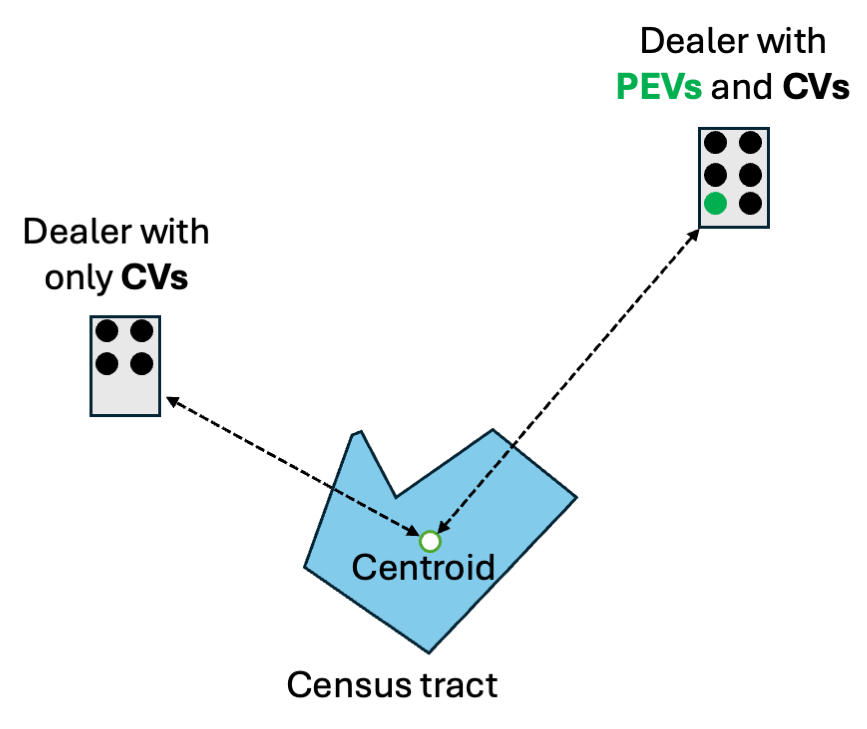
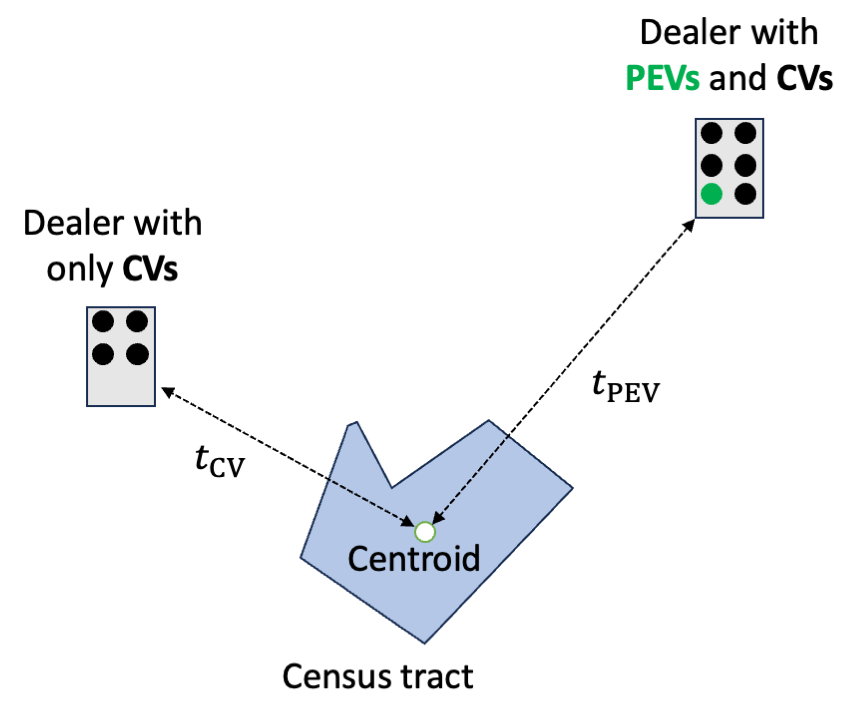
more trb updates

diff --git a/2025-ev-policy-council/index.html b/2025-ev-policy-council/index.html
@@ -148,11 +148,49 @@ class: center, middle
 
 ---
 
+class: center
+background-color: #fff
+
+# What % of dealerships have at least one PEV?
+
+&lt;center&gt;
+&lt;img src="images/dealercounts.png" width=100%&gt;
+&lt;/center&gt;
+
+---
+
+background-color: #fff
+
+## PEV “access burden”: additional travel time to see a BEV
+
+.leftcol[
+
+#### Access burden:
+
+1. Find closest CV and BEV dealerships from census tract centroid. 
+2. Compute road travel time* to each dealership: `\(t_{\mathrm{PEV}}\)` and `\(t_{\mathrm{CV}}\)`
+3. Compute “Burden” as difference in travel time: `\(b = t_{\mathrm{PEV}} - t_{\mathrm{CV}}\)`
+
+&lt;br&gt;
+
+*Road travel times obtained using&lt;br&gt;Open Street Road Map (OSRM)
+
+]
+
+.rightcol[.border[
+
 &lt;center&gt;
 &lt;img src="images/tract-diagram.png" width=100%&gt;
 &lt;/center&gt;
 
+]]
+
 ---
+
+class: center
+background-color: #fff
+
+## PEV Access Burden
 
 &lt;center&gt;
 &lt;img src="images/travel_burden_map.png" width=100%&gt;
@@ -160,14 +198,24 @@ class: center, middle
 
 ---
 
+class: center
+background-color: #fff
+
+### Access burden is shrinking in magnitude and spatial variation
+
 &lt;center&gt;
-&lt;img src="images/box_plot.png" width=100%&gt;
+&lt;img src="images/box_plot.png" width=700&gt;
 &lt;/center&gt;
 
 ---
 
+class: center
+background-color: #fff
+
+## Significant variation by urban status, but also shrinking
+
 &lt;center&gt;
-&lt;img src="images/median_region.png" width=100%&gt;
+&lt;img src="images/median_region.png" width=700&gt;
 &lt;/center&gt;
 
 ---
